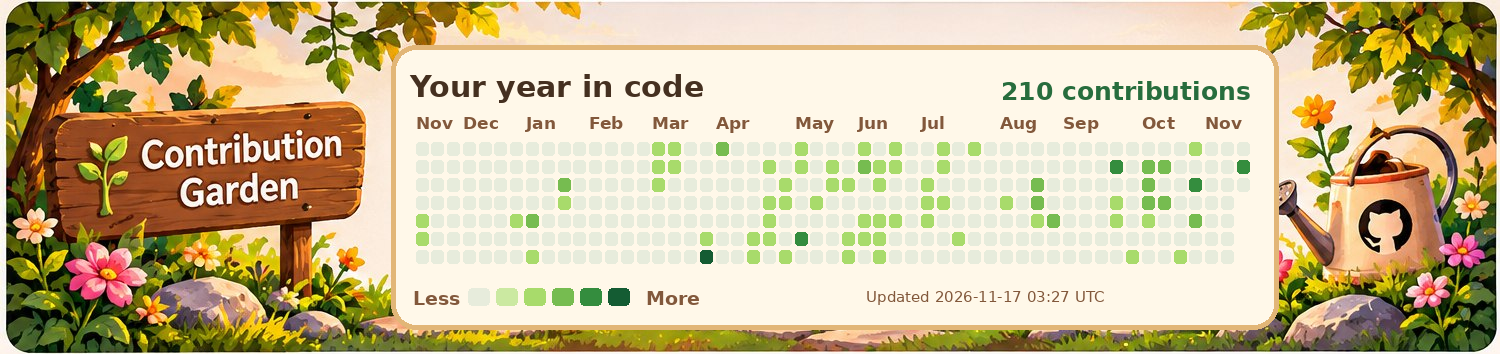
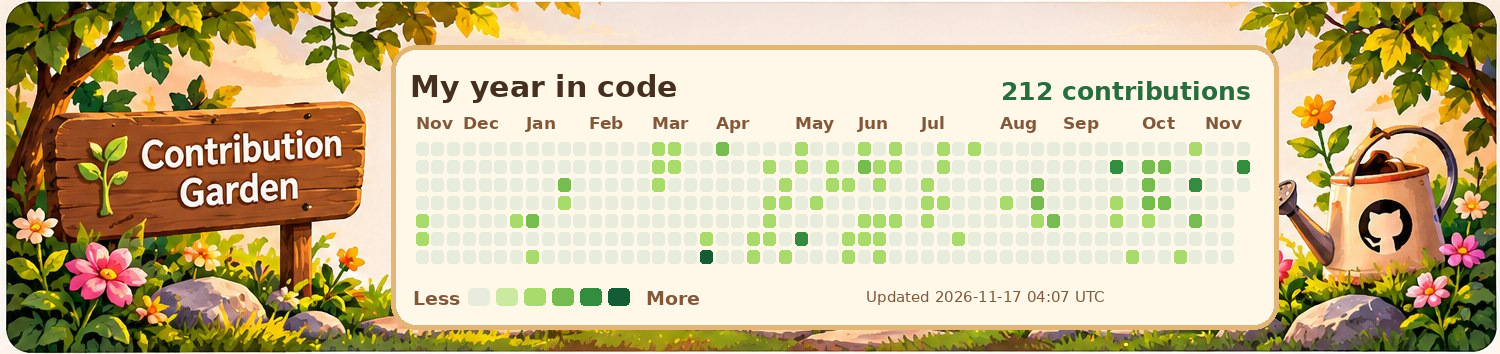
fix: use My year in code in contribution garden
* fix: label contribution garden My year in code

* chore: refresh Cozy Studio graphics [skip ci]

---------

Changed region(s): [[0.276, 0.2175, 0.4907, 0.3107], [0.6747, 0.2486, 0.7053, 0.2797]]

diff --git a/scripts/render_concept2.py b/scripts/render_concept2.py
@@ -71,7 +71,7 @@ def render_garden(data: dict | None, target: Path | None = None, refreshed_at: d
         if count < 0:
             raise ValueError('Invalid GitHub rolling-year count')
 
-        draw.text((410, 69), 'Your year in code', font=font(30, True), fill=INK)
+        draw.text((410, 69), 'My year in code', font=font(30, True), fill=INK)
         count_str = f'{count:,} contributions'
         right = draw.textbbox((0, 0), count_str, font=font(25, True))[2]
         draw.text((1251 - right, 76), count_str, font=font(25, True), fill=GREEN)
